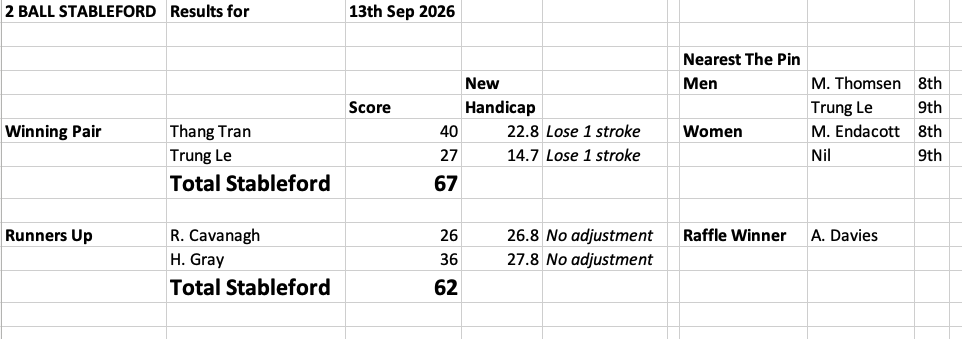
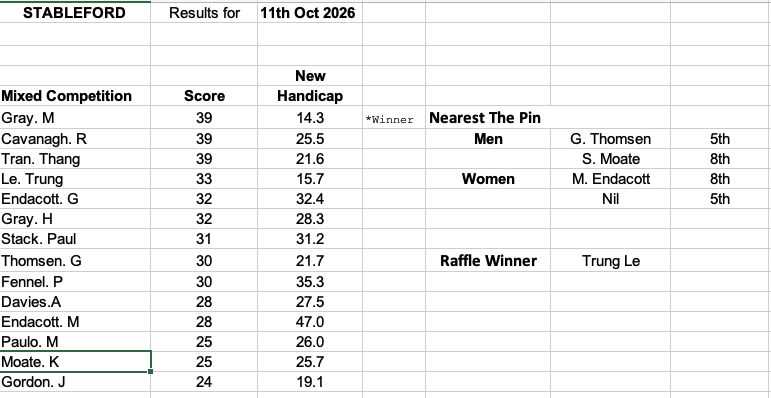
Add files via upload

Changed region(s): [[0.0, 0.0, 1.0, 1.0]]

diff --git a/index.html b/index.html
@@ -94,7 +94,7 @@
   </header>
   <main>
     <nav aria-label="Club links">
-      <a href="Handicaps.htm">Handicap Sheet</a>
+      <a href="Handicaps.png">Handicap Sheet</a>
       <a href="Results.png">Latest Results</a>
       <a href="Schedule.png">Schedule</a>
     </nav>
